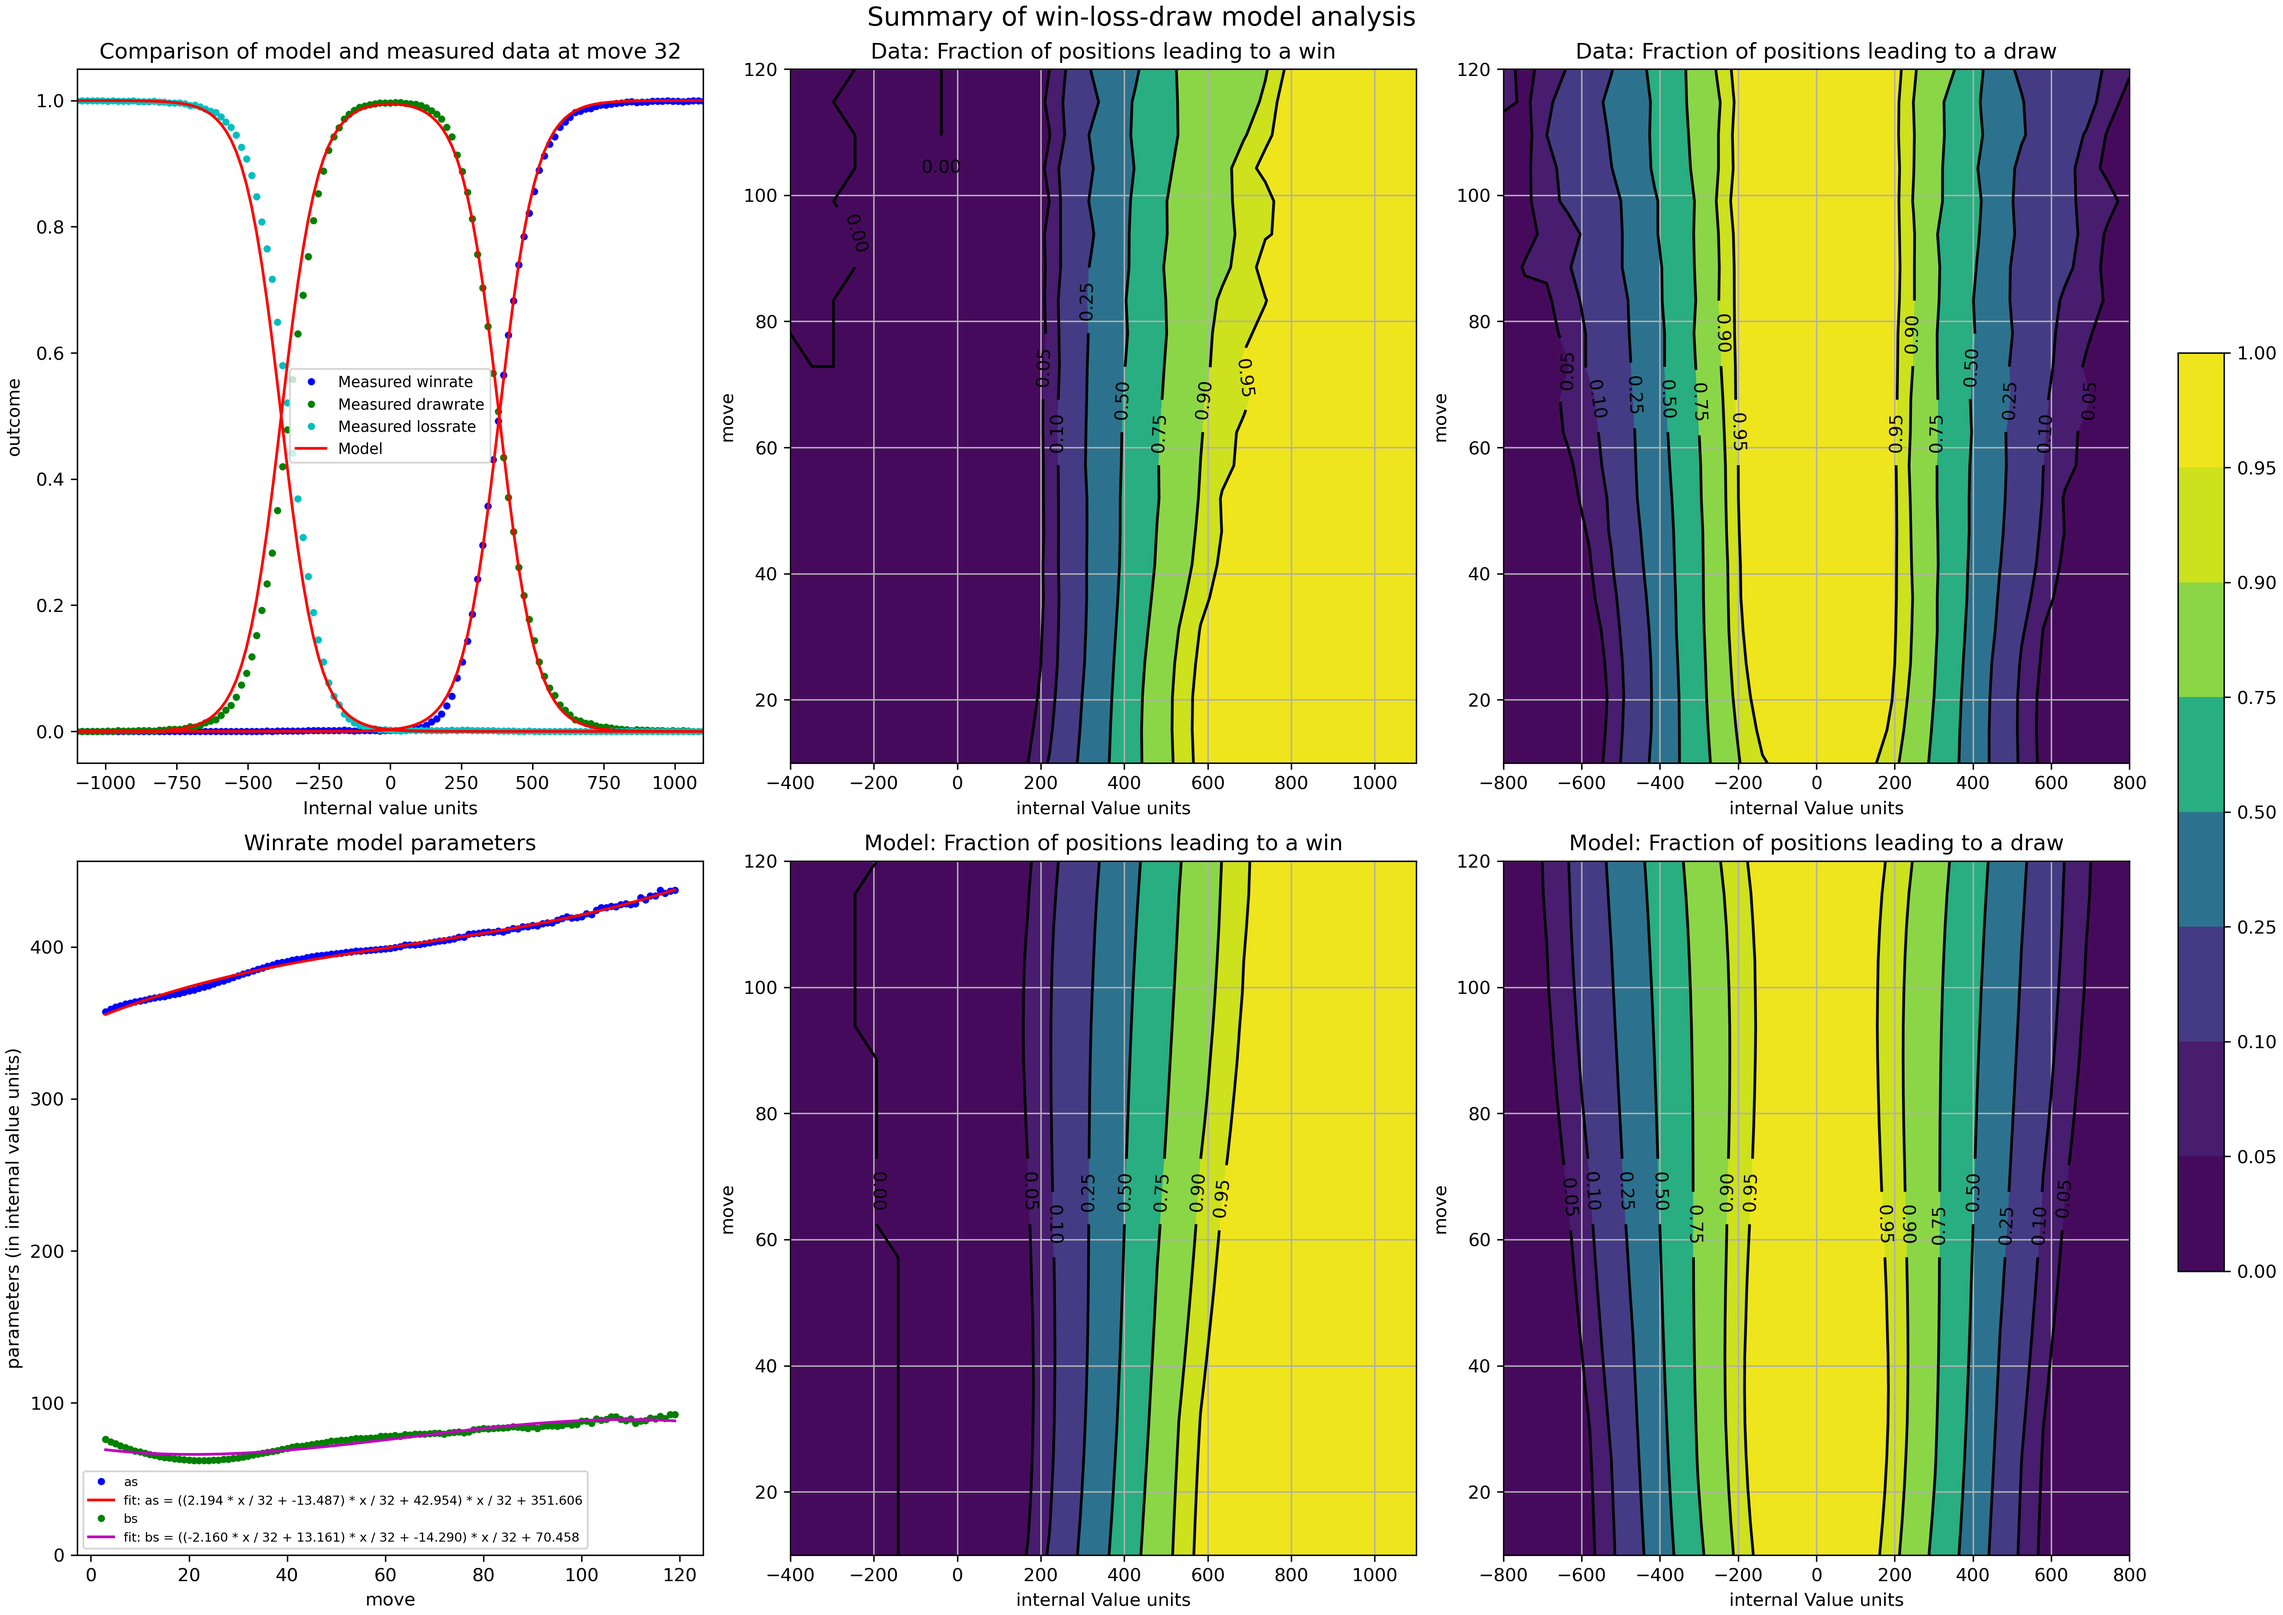
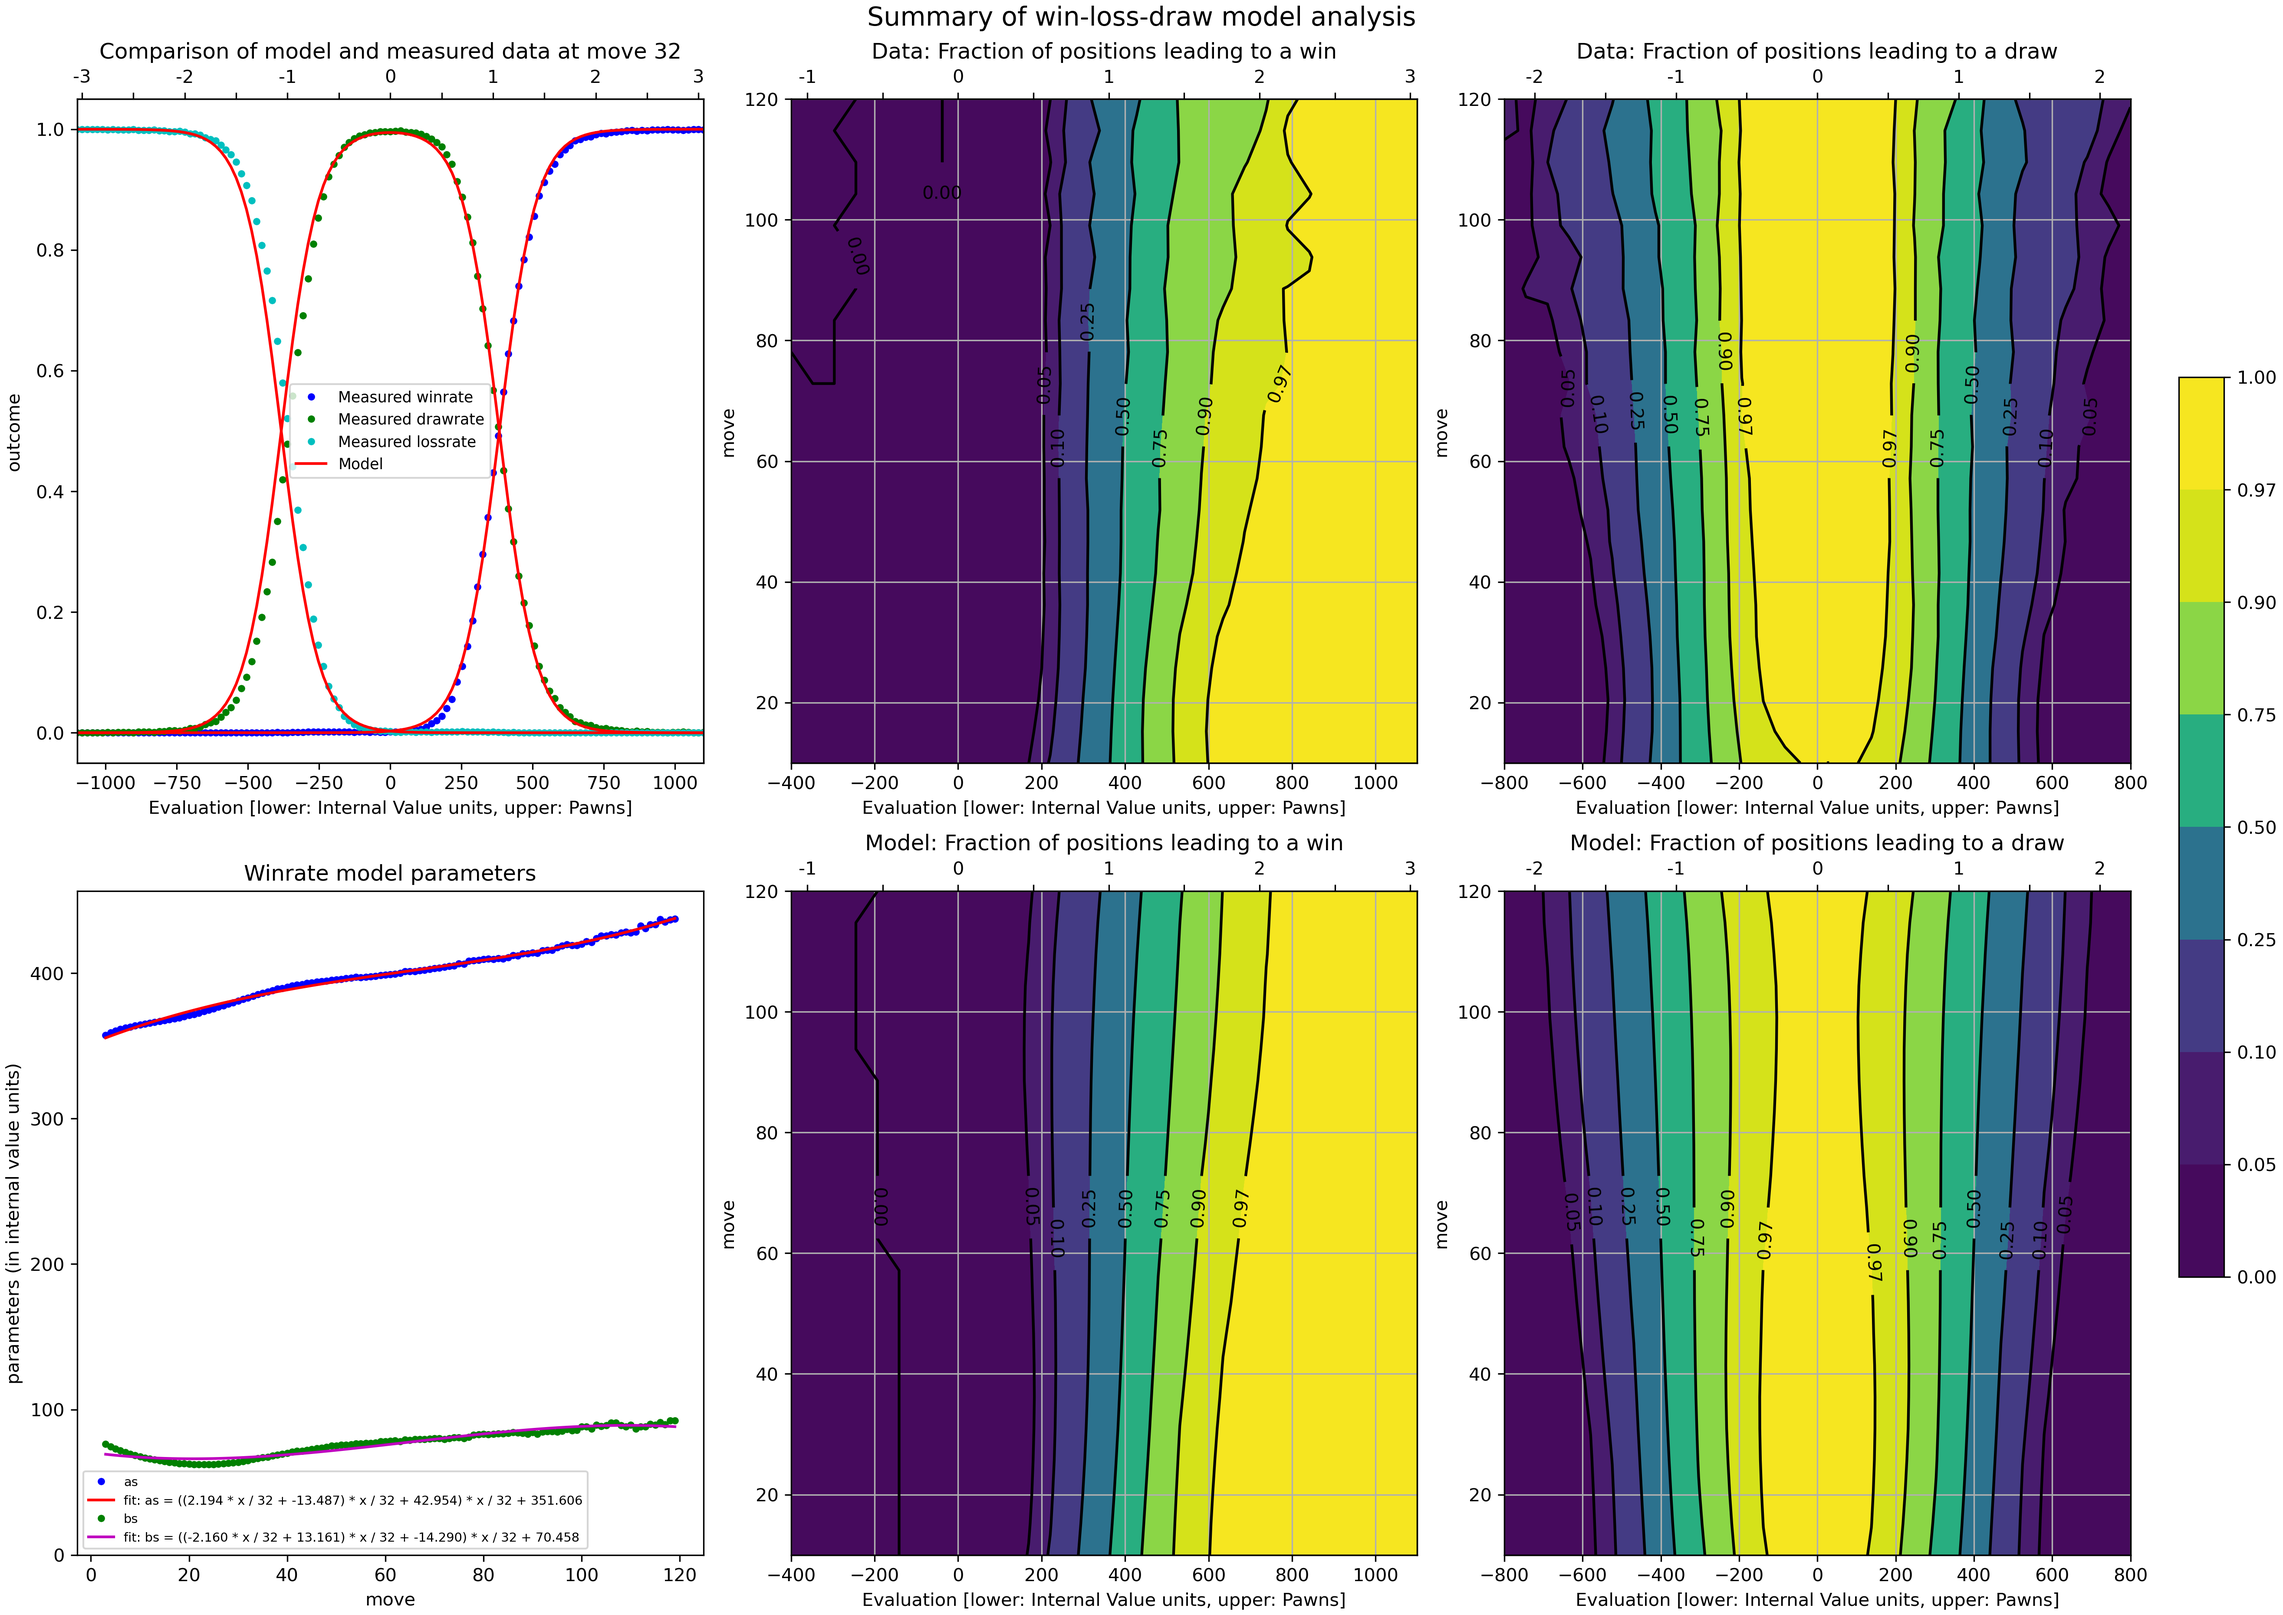
Add secondary x-axis for pawn evaluation

diff --git a/scoreWLDana_moves_fit.py b/scoreWLDana_moves_fit.py
@@ -6,6 +6,7 @@ import matplotlib.pyplot as plt
 import numpy as np
 from scipy.interpolate import griddata
 from scipy.optimize import curve_fit
+import math
 
 parser = argparse.ArgumentParser()
 
@@ -111,6 +112,23 @@ def wdl(score, move, popt_as, popt_bs):
     return (w, d, l)
 
 
+def normalized_axis(ax):
+    ax2 = ax.twiny()
+    tickmin = math.ceil(ax.get_xlim()[0] / args.NormalizeToPawnValue) * 2
+    tickmax = math.floor(ax.get_xlim()[1] / args.NormalizeToPawnValue) * 2 + 1
+    new_tick_locations = np.array(
+        [x / 2 * args.NormalizeToPawnValue for x in range(tickmin, tickmax)]
+    )
+
+    def tick_function(X):
+        V = X / args.NormalizeToPawnValue
+        return [("%.0f" % z if z % 1 < 0.1 else "") for z in V]
+
+    ax2.set_xlim(ax.get_xlim())
+    ax2.set_xticks(new_tick_locations)
+    ax2.set_xticklabels(tick_function(new_tick_locations))
+
+
 #
 # convert to model, fit the winmodel a and b,
 # for a given value of the move counter
@@ -170,12 +188,14 @@ for m in range(3, 120, grouping):
             )
         axs[0, 0].plot(xdata, ymodel, "r-")
 
-        axs[0, 0].set_xlabel("Internal value units")
+        axs[0, 0].set_xlabel("Evaluation [lower: Internal Value units, upper: Pawns]")
         axs[0, 0].set_ylabel("outcome")
         axs[0, 0].legend(fontsize="small")
         axs[0, 0].set_title("Comparison of model and measured data at move 32")
         xmax = ((3 * args.NormalizeToPawnValue) // 100 + 1) * 100
         axs[0, 0].set_xlim([-xmax, xmax])
+        normalized_axis(axs[0, 0])
+
 
 #
 # now capture the functional behavior of a and b as a function of the move counter
@@ -229,77 +249,65 @@ axs[1, 0].set_ylim(bottom=0.0)
 #
 # now generate contour plots
 #
+contourlines = [0, 0.05, 0.1, 0.25, 0.5, 0.75, 0.9, 0.97, 1.0]
+
 print("processing done, plotting 2D data")
 for i in [0, 1]:
     for j in [1, 2]:
         axs[i, j].yaxis.grid(True)
         axs[i, j].xaxis.grid(True)
-        axs[i, j].set_xlabel("internal Value units")
+        axs[i, j].set_xlabel("Evaluation [lower: Internal Value units, upper: Pawns]")
         axs[i, j].set_ylabel("move")
 
-# for wins, data
+# for wins
 xmin = -((1 * args.NormalizeToPawnValue) // 100 + 1) * 100
 xmax = ((3 * args.NormalizeToPawnValue) // 100 + 1) * 100
 grid_x, grid_y = np.mgrid[xmin:xmax:30j, 10:120:22j]
 points = np.array(list(zip(xs, ys)))
+
+# data
 zz = griddata(points, zs, (grid_x, grid_y), method="linear")
-cp = axs[0, 1].contourf(
-    grid_x, grid_y, zz, [0, 0.05, 0.1, 0.25, 0.5, 0.75, 0.9, 0.95, 1.0]
-)
+cp = axs[0, 1].contourf(grid_x, grid_y, zz, contourlines)
 fig.colorbar(cp, ax=axs[:, 2], shrink=0.618)
-CS = axs[0, 1].contour(
-    grid_x, grid_y, zz, [0, 0.05, 0.1, 0.25, 0.5, 0.75, 0.9, 0.95, 1.0], colors="black"
-)
+CS = axs[0, 1].contour(grid_x, grid_y, zz, contourlines, colors="black")
 axs[0, 1].clabel(CS, inline=1, colors="black")
 axs[0, 1].set_title("Data: Fraction of positions leading to a win")
+normalized_axis(axs[0, 1])
 
-# for wins, model
+# model
 for i in range(0, len(xs)):
     zs[i] = wdl(xs[i], ys[i], popt_as, popt_bs)[0] / 1000.0
-
-grid_x, grid_y = np.mgrid[xmin:xmax:30j, 10:120:22j]
-points = np.array(list(zip(xs, ys)))
 zz = griddata(points, zs, (grid_x, grid_y), method="linear")
-cp = axs[1, 1].contourf(
-    grid_x, grid_y, zz, [0, 0.05, 0.1, 0.25, 0.5, 0.75, 0.9, 0.95, 1.0]
-)
-CS = axs[1, 1].contour(
-    grid_x, grid_y, zz, [0, 0.05, 0.1, 0.25, 0.5, 0.75, 0.9, 0.95, 1.0], colors="black"
-)
+cp = axs[1, 1].contourf(grid_x, grid_y, zz, contourlines)
+CS = axs[1, 1].contour(grid_x, grid_y, zz, contourlines, colors="black")
 axs[1, 1].clabel(CS, inline=1, colors="black")
 axs[1, 1].set_title("Model: Fraction of positions leading to a win")
+normalized_axis(axs[1, 1])
 
 
-# for draws, data
+# for draws
 xmin = -((2 * args.NormalizeToPawnValue) // 100 + 1) * 100
 xmax = ((2 * args.NormalizeToPawnValue) // 100 + 1) * 100
 grid_x, grid_y = np.mgrid[xmin:xmax:30j, 10:120:22j]
 points = np.array(list(zip(xs, ys)))
+
+# data
 zz = griddata(points, zdraws, (grid_x, grid_y), method="linear")
-cp = axs[0, 2].contourf(
-    grid_x, grid_y, zz, [0, 0.05, 0.1, 0.25, 0.5, 0.75, 0.9, 0.95, 1.0]
-)
-CS = axs[0, 2].contour(
-    grid_x, grid_y, zz, [0, 0.05, 0.1, 0.25, 0.5, 0.75, 0.9, 0.95, 1.0], colors="black"
-)
+cp = axs[0, 2].contourf(grid_x, grid_y, zz, contourlines)
+CS = axs[0, 2].contour(grid_x, grid_y, zz, contourlines, colors="black")
 axs[0, 2].clabel(CS, inline=1, colors="black")
 axs[0, 2].set_title("Data: Fraction of positions leading to a draw")
+normalized_axis(axs[0, 2])
 
 # for wins, draws
 for i in range(0, len(xs)):
     zs[i] = wdl(xs[i], ys[i], popt_as, popt_bs)[1] / 1000.0
-
-grid_x, grid_y = np.mgrid[xmin:xmax:30j, 10:120:22j]
-points = np.array(list(zip(xs, ys)))
 zz = griddata(points, zs, (grid_x, grid_y), method="linear")
-cp = axs[1, 2].contourf(
-    grid_x, grid_y, zz, [0, 0.05, 0.1, 0.25, 0.5, 0.75, 0.9, 0.95, 1.0]
-)
-CS = axs[1, 2].contour(
-    grid_x, grid_y, zz, [0, 0.05, 0.1, 0.25, 0.5, 0.75, 0.9, 0.95, 1.0], colors="black"
-)
+cp = axs[1, 2].contourf(grid_x, grid_y, zz, contourlines)
+CS = axs[1, 2].contour(grid_x, grid_y, zz, contourlines, colors="black")
 axs[1, 2].clabel(CS, inline=1, colors="black")
 axs[1, 2].set_title("Model: Fraction of positions leading to a draw")
+normalized_axis(axs[1, 2])
 
 
 fig.align_labels()
